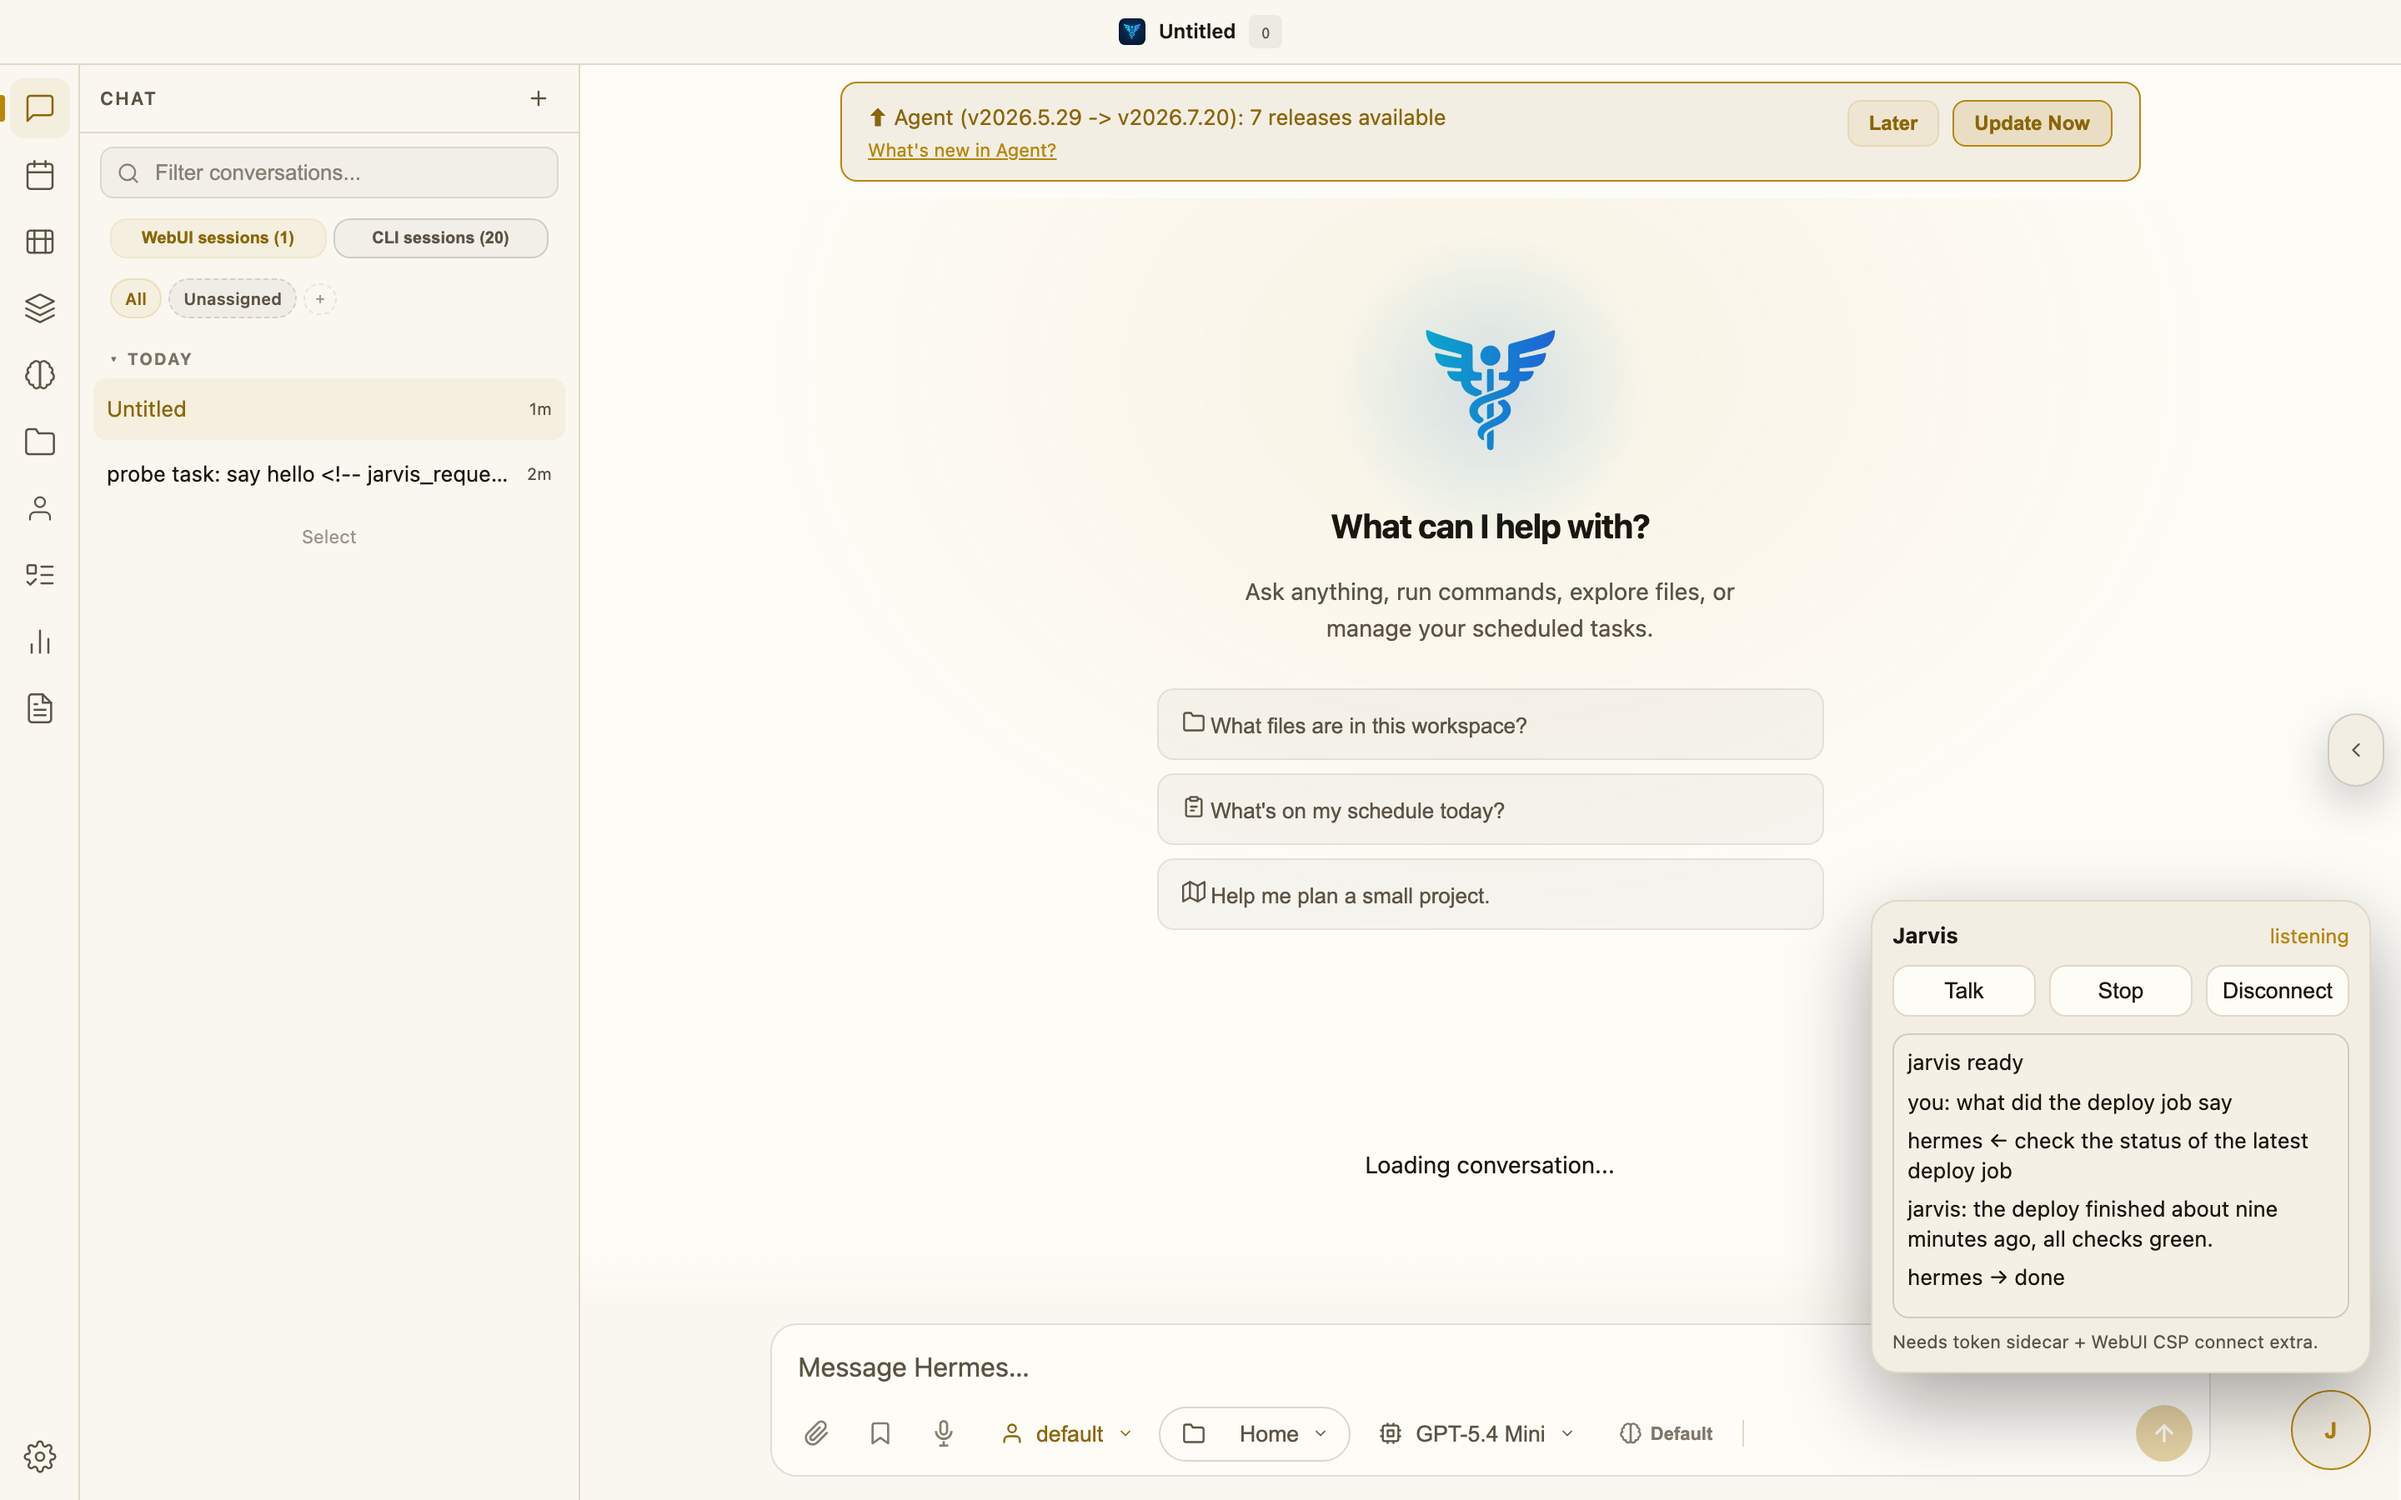
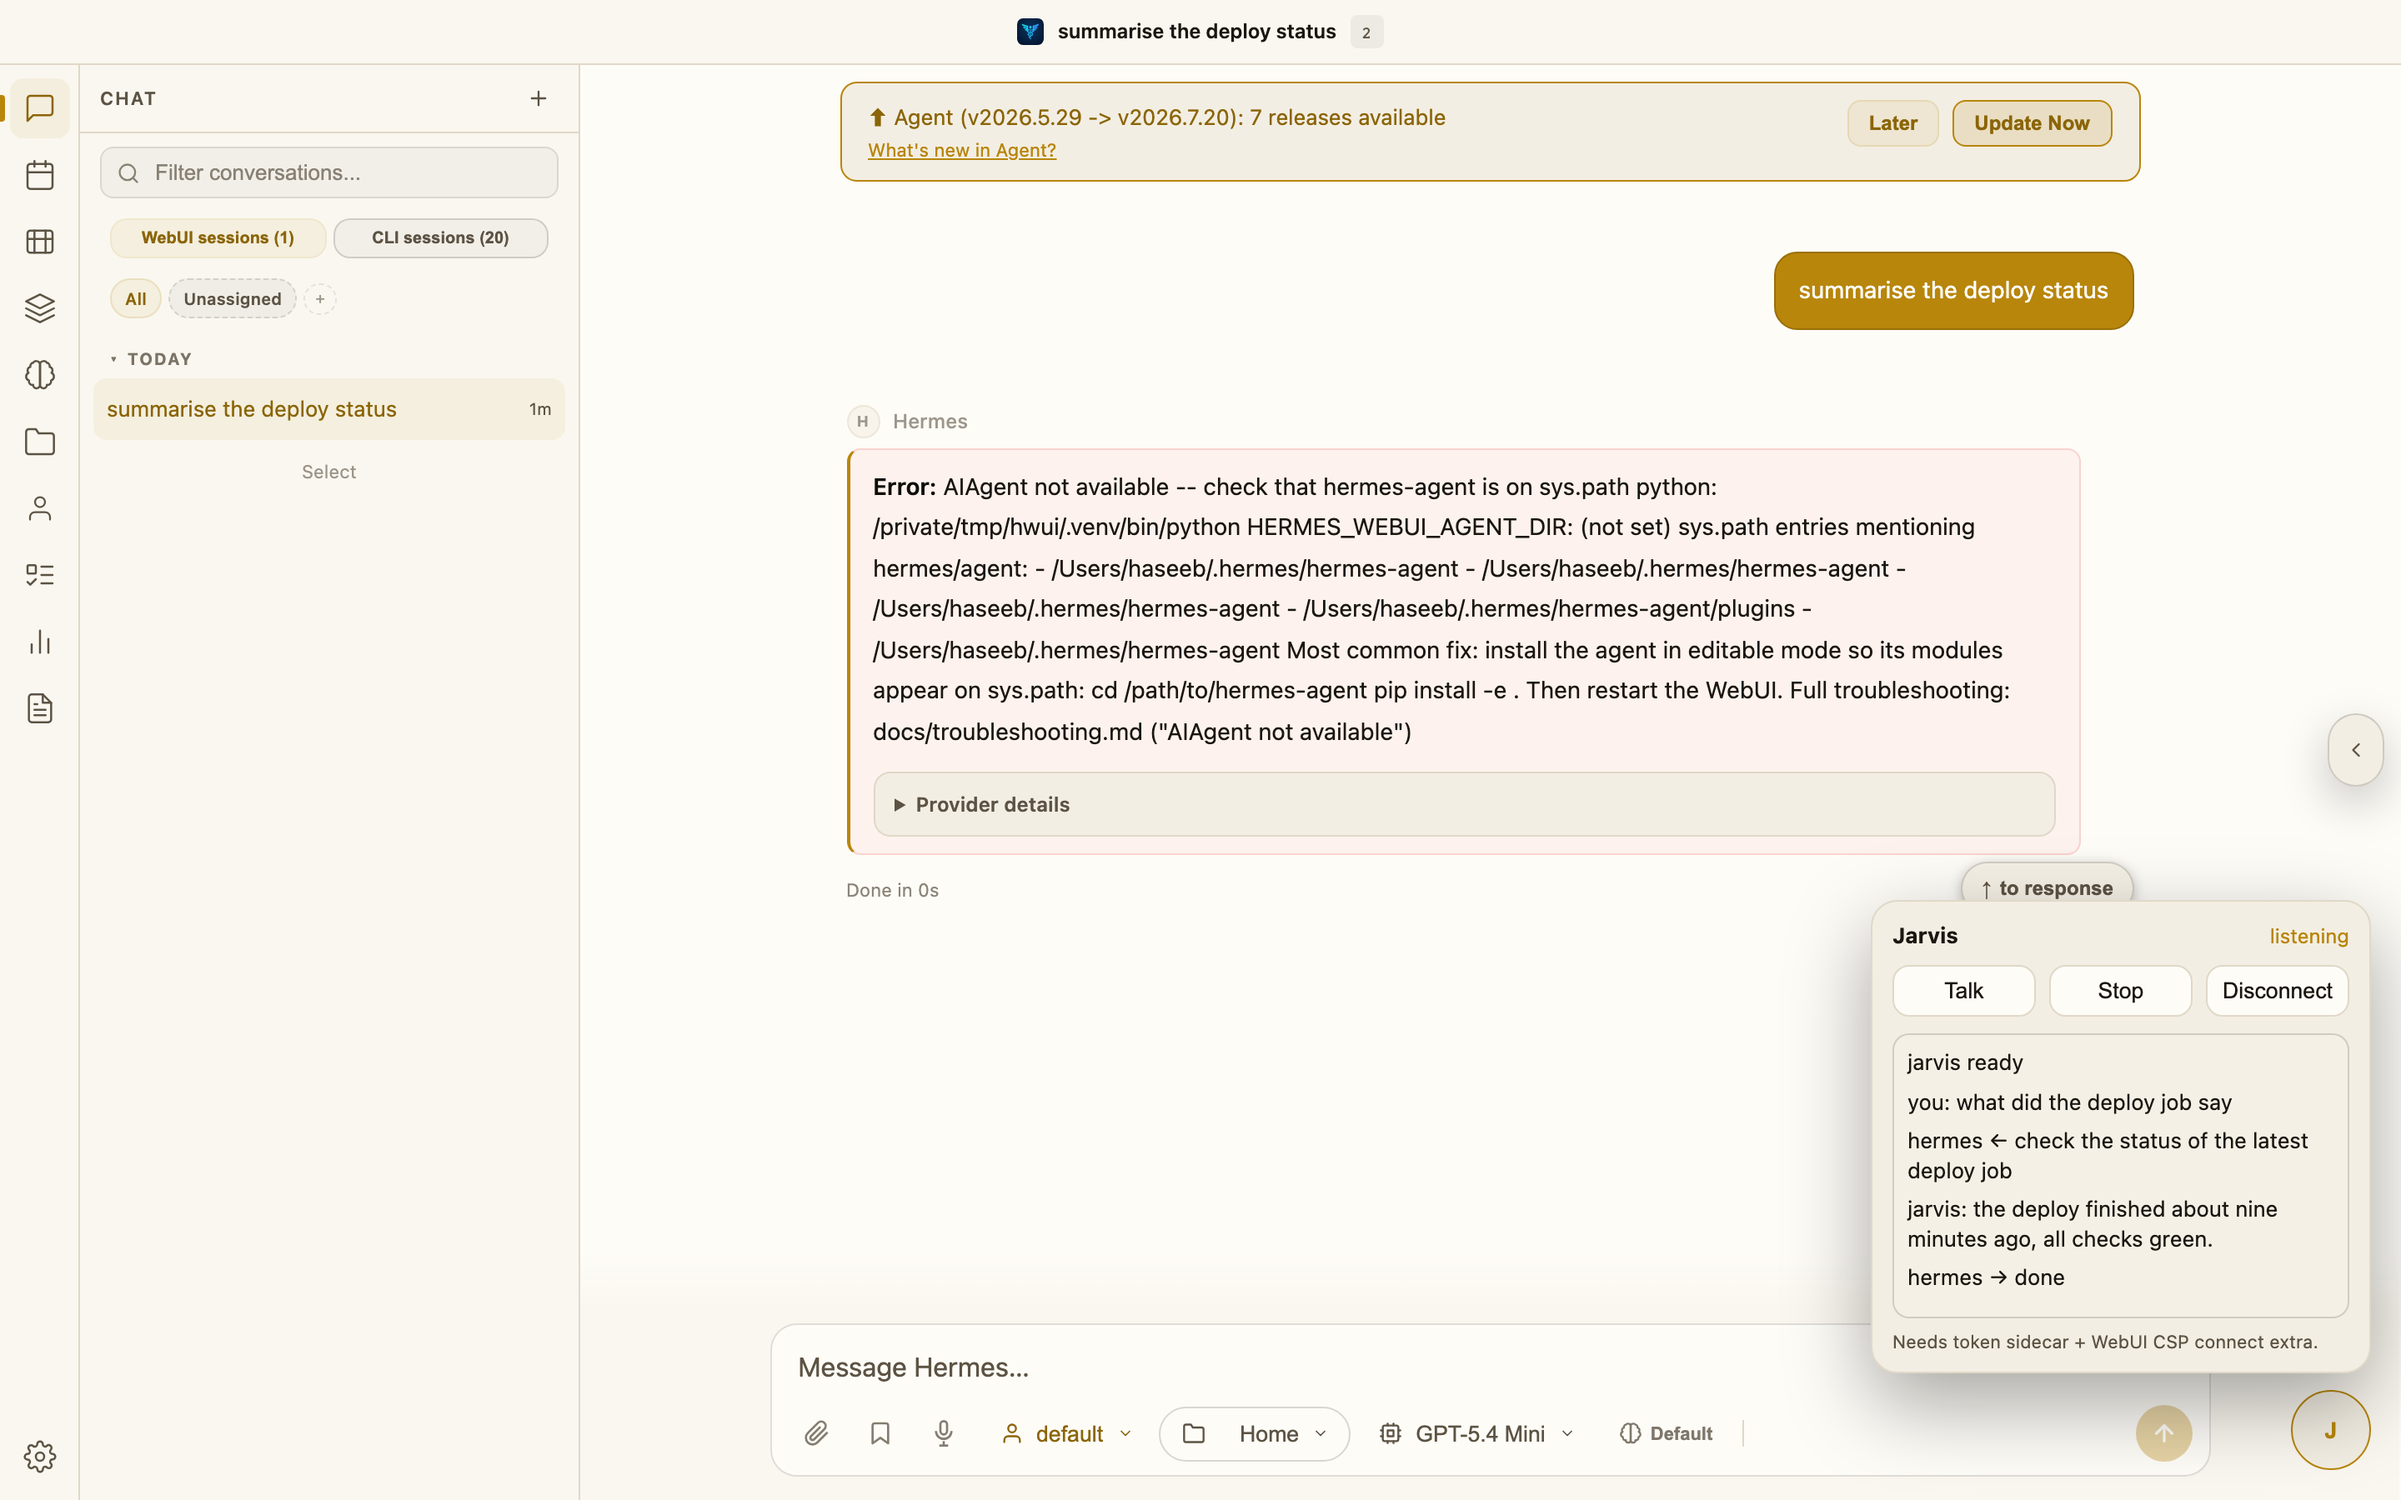
fix: correlate on core's display coordinates, not a marker in the prompt
The local WebUI run made a shipping defect visible: runHermes() appended
`<!-- jarvis_request_id:... -->` to the prompt, and core renders it as literal
text in the message bubble, uses it for the sidebar conversation title, and
puts it in the document title. Every voice task permanently defaced the
transcript and the session list.

What core actually offers, checked against the running instance rather than
guessed: /api/chat/start returns `turn_id` and `stream_id`, but core does not
store either on the message rows, so a turn id cannot be matched from the
session API. Message rows carry only role, content, timestamp and flags — no
per-message id, and second-granularity timestamps that collide within a turn.

So correlation now uses core's own display coordinates. The prompt is the task
verbatim; nothing is appended. The submitted row is the first user row at or
after the pre-send message_count whose text is exactly the task, located via
the window's _messages_offset. The reply is then the last assistant row before
the next user row.

This is not a cosmetic hide. No CSS, no hidden element, no zero-width
character: the marker is gone from the payload entirely.

Guards preserved, each proven load-bearing by reverting it:

- next-user-turn boundary — dropping the break returns the later turn's reply
- baseline anchoring — dropping the count bound returns an older identical
  message's answer
- marker absence — re-adding a prompt suffix fails the leakage assertion
[…]

diff --git a/extensions/jarvis-voice/assets/jarvis-voice.js b/extensions/jarvis-voice/assets/jarvis-voice.js
@@ -393,29 +393,42 @@
     return res.json();
   }
 
-  function hasRequestMarker(messages, requestId) {
-    return messages.some((msg) => msg && msg.role === 'user'
-      && String((msg.content || msg.text) || '').includes(requestId));
+  function messageText(msg) {
+    return String((msg && (msg.content || msg.text)) || '');
   }
 
-  function latestAssistantAfterRequest(messages, requestId) {
-    let inTurn = false;
+  // Locate the row we submitted, using core's own display coordinates instead of
+  // decorating the prompt. `/api/chat/start` does return a `turn_id`, but core
+  // does not store it on the message rows, so it cannot be matched here; and a
+  // marker in the prompt text is not an option because core renders it in the
+  // message bubble and derives the sidebar title from it.
+  //
+  // Anchor: the first user row at or after the pre-send count whose text is
+  // exactly the task. Nothing is appended to the prompt, so the stored row and
+  // the text we typed match verbatim. The count bound is what stops an older,
+  // identical message from being mistaken for ours.
+  function findRequestRow(messages, offset, beforeCount, task) {
+    for (let i = 0; i < messages.length; i += 1) {
+      const msg = messages[i];
+      if (!msg || msg.role !== 'user') continue;
+      if (offset + i < beforeCount) continue;
+      if (messageText(msg) !== task) continue;
+      return i;
+    }
+    return -1;
+  }
+
+  function replyForRequestRow(messages, rowIndex) {
     let reply = '';
-    for (const msg of messages) {
+    for (let i = rowIndex + 1; i < messages.length; i += 1) {
+      const msg = messages[i];
       if (!msg) continue;
-      const text = String((msg.content || msg.text) || '');
-      if (msg.role === 'user') {
-        if (text.includes(requestId)) {
-          inTurn = true;
-          reply = '';
-        } else if (inTurn) {
-          // A later user turn closes ours. Anything past it answers a different
-          // request and must never be handed back as this task's result.
-          break;
-        }
-        continue;
-      }
-      if (inTurn && msg.role === 'assistant' && !msg._live && text) reply = text;
+      // A later user turn closes ours. Anything past it answers a different
+      // request and must never be handed back as this task's result.
+      if (msg.role === 'user') break;
+      if (msg.role !== 'assistant' || msg._live) continue;
+      const text = messageText(msg);
+      if (text) reply = text;
     }
     return reply;
   }
@@ -423,7 +436,7 @@
   // Returns null when the caller went away mid-wait. The loop runs for up to the
   // whole tool timeout, so without this it keeps polling core for minutes after
   // the user disconnected, for a reply nobody is left to receive.
-  async function waitForHermes(sid, beforeCount, timeoutMs, requestId, isStale = () => false) {
+  async function waitForHermes(sid, beforeCount, timeoutMs, task, isStale = () => false) {
     const start = Date.now();
     let delay = POLL_MIN_MS;
     while (Date.now() - start < timeoutMs) {
@@ -439,24 +452,29 @@
       const count = Number(metaSession.message_count ?? 0);
       if (!(count > beforeCount + 1)) continue;
       // Size the window from the growth we just observed, so however many rows
-      // the agent turn produced, our marker is still inside it.
+      // the agent turn produced, our own row is still inside it.
       const span = Math.max(0, count - beforeCount) + REPLY_WINDOW_MARGIN;
       const limit = Math.min(REPLY_WINDOW_MAX, Math.max(REPLY_WINDOW_MIN, span));
       let data = await readSession(sid, limit);
       if (isStale()) return null;
       let session = (data && data.session) || {};
       let messages = Array.isArray(session.messages) ? session.messages : [];
+      let offset = Number(session._messages_offset ?? 0);
+      let row = findRequestRow(messages, offset, beforeCount, task);
       // Belt for a coordinate-space mismatch: message_count is a display count,
-      // so if it under-reports the rows in the turn the marker can still fall
+      // so if it under-reports the rows in the turn our row can still fall
       // outside the window. Widen once rather than silently timing out.
-      if (limit < REPLY_WINDOW_MAX && session._messages_truncated && !hasRequestMarker(messages, requestId)) {
+      if (row < 0 && limit < REPLY_WINDOW_MAX && session._messages_truncated) {
         data = await readSession(sid, REPLY_WINDOW_MAX);
         if (isStale()) return null;
         session = (data && data.session) || {};
         messages = Array.isArray(session.messages) ? session.messages : [];
+        offset = Number(session._messages_offset ?? 0);
+        row = findRequestRow(messages, offset, beforeCount, task);
       }
+      if (row < 0) continue;
       if (hermesBusy(session, {})) continue;
-      const reply = latestAssistantAfterRequest(messages, requestId);
+      const reply = replyForRequestRow(messages, row);
       if (reply) return reply.slice(0, 8000);
     }
     throw new Error('Hermes did not finish before the Jarvis tool timeout');
@@ -511,8 +529,10 @@
       const baselineSession = baseline && baseline.session || {};
       if (hermesBusy(baselineSession, {})) return 'Hermes is already running a task. Ask the user whether to wait, stop it, or steer it.';
       const beforeCount = Number(baselineSession.message_count ?? (core.session && core.session.message_count) ?? (Array.isArray(core.messages) ? core.messages.length : 0));
-      const requestId = `jarvis_${Date.now().toString(36)}_${Math.random().toString(36).slice(2, 8)}`;
-      const prompt = `${task}\n\n<!-- jarvis_request_id:${requestId} -->`;
+      // The prompt is the task, verbatim. Nothing is appended: core renders any
+      // added text in the message bubble and derives the sidebar conversation
+      // title from it, so a correlation marker here defaces every voice task.
+      const prompt = task;
       log(`hermes ← ${task}`);
       msg.value = prompt;
       msg.dispatchEvent(new Event('input', { bubbles: true }));
@@ -536,7 +556,7 @@
       if (currentSid() !== sid) throw new Error('Hermes conversation changed before the Jarvis task was accepted');
       if (clearOwnPrompt(msg, prompt)) throw new Error('Hermes did not accept the Jarvis task');
       if (String(msg.value || '')) throw new Error('The composer changed while the Jarvis task was sending');
-      const reply = await waitForHermes(sid, beforeCount, settings().timeoutSeconds * 1000, requestId, isStale);
+      const reply = await waitForHermes(sid, beforeCount, settings().timeoutSeconds * 1000, task, isStale);
       if (reply === null) return ABANDONED_MESSAGE;
       log('hermes → done');
       return reply;

diff --git a/extensions/jarvis-voice/screenshots/README.md b/extensions/jarvis-voice/screenshots/README.md
@@ -11,6 +11,13 @@ real application.
 | `jarvis-voice-mobile-light.png` | 390×844 @3x, touch | light |
 | `jarvis-voice-mobile-dark.png` | 390×844 @3x, touch | dark |
 
+The conversation shown was started by `run_hermes`, so these images double as
+evidence that a voice-initiated task leaves no correlation marker behind: the
+message bubble, the sidebar entry, and the tab title all read exactly
+`summarise the deploy status`. An earlier revision appended
+`<!-- jarvis_request_id:... -->` to the prompt, which core rendered as literal
+text in all three places.
+
 ## What is real and what is staged
 
 Real: the WebUI, the sidebar and composer, core's theme variables, the extension
